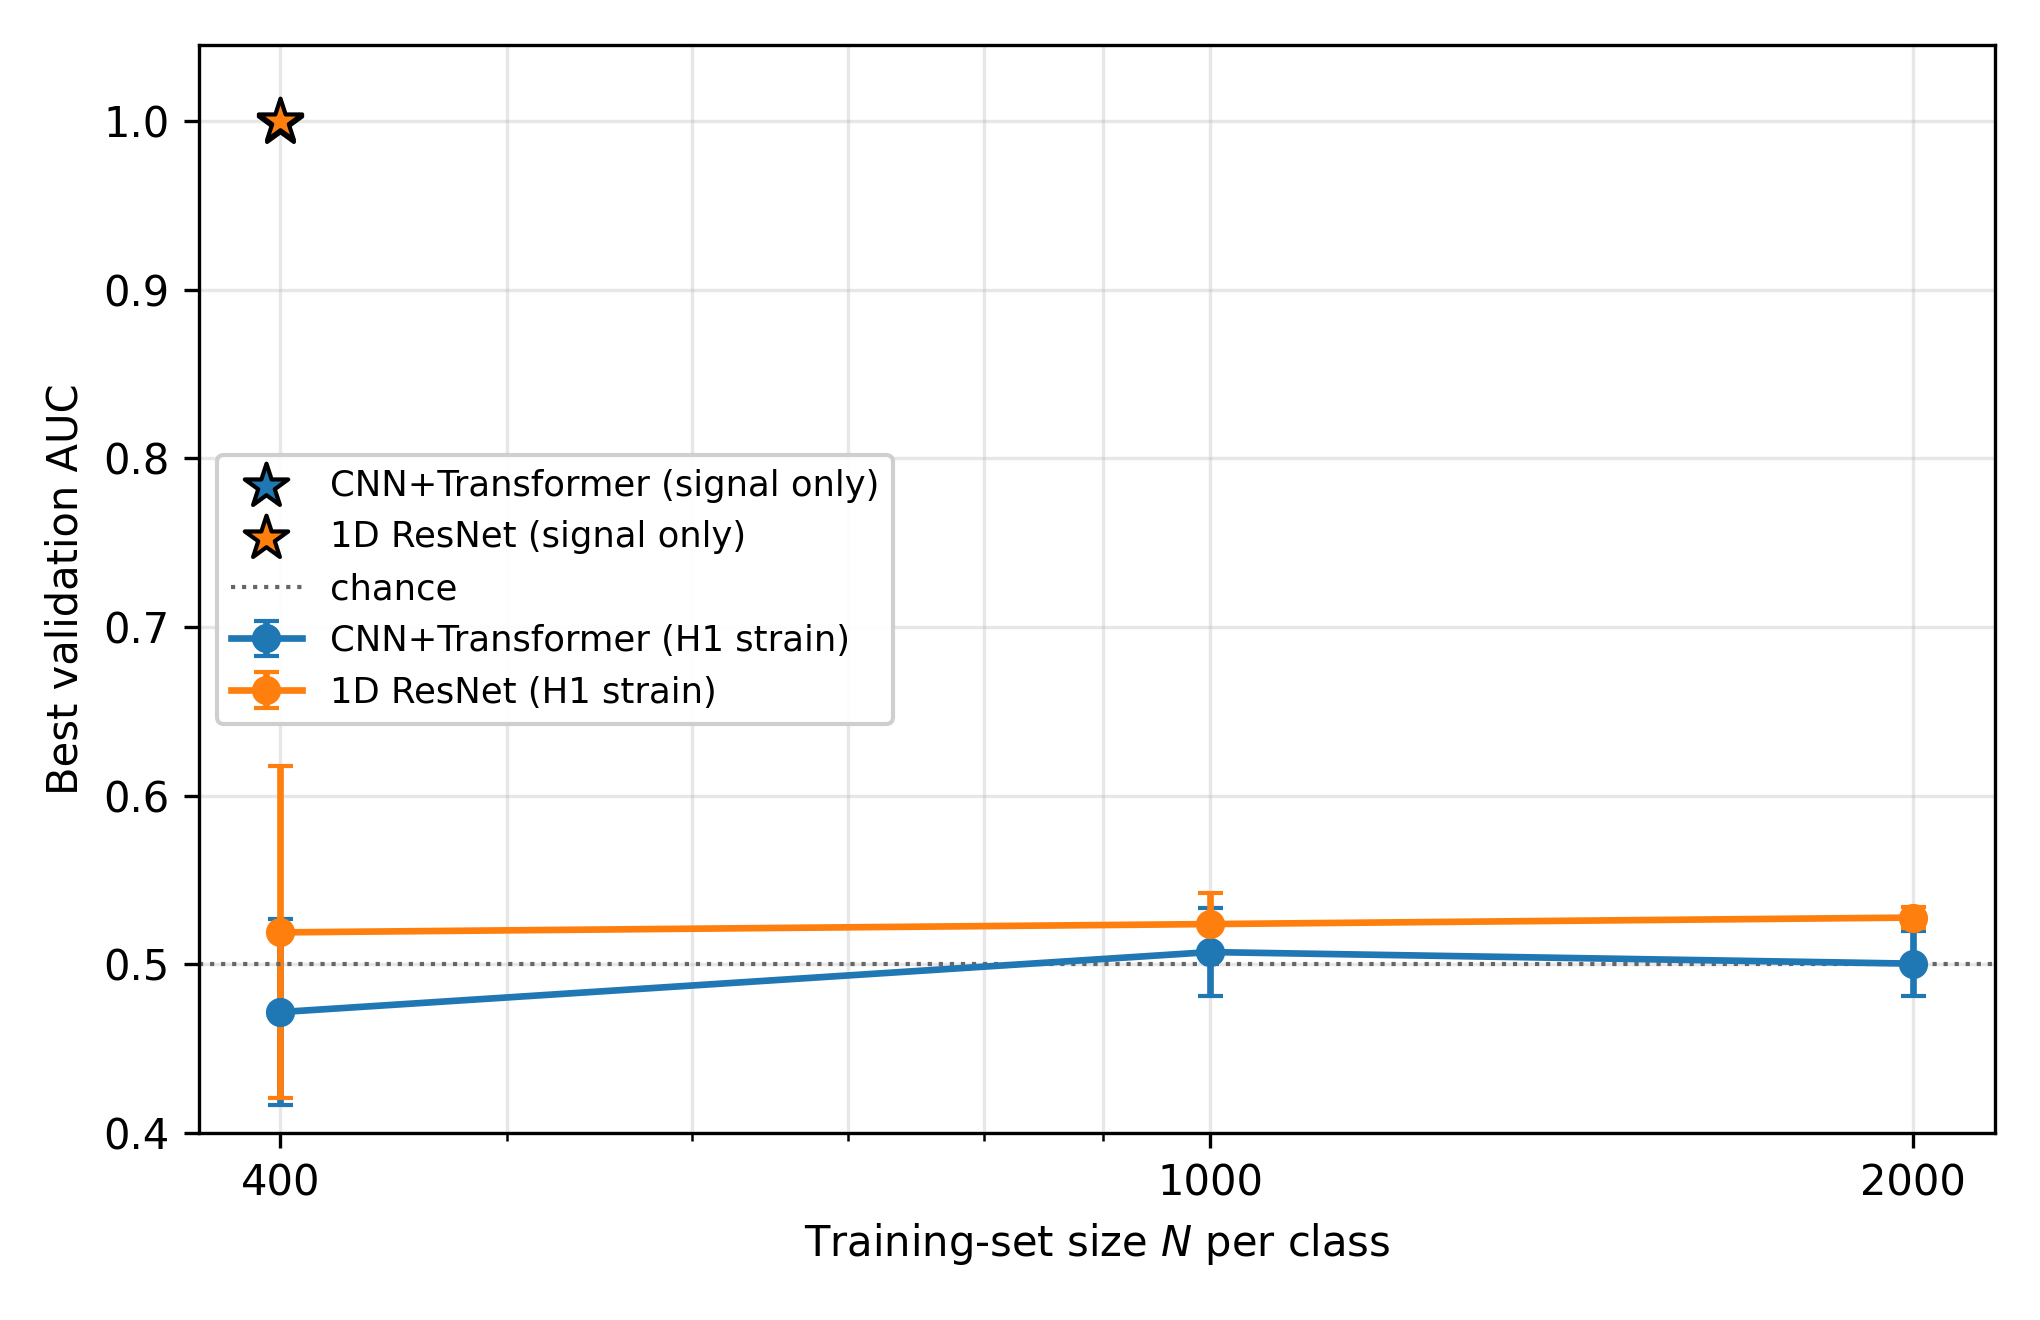
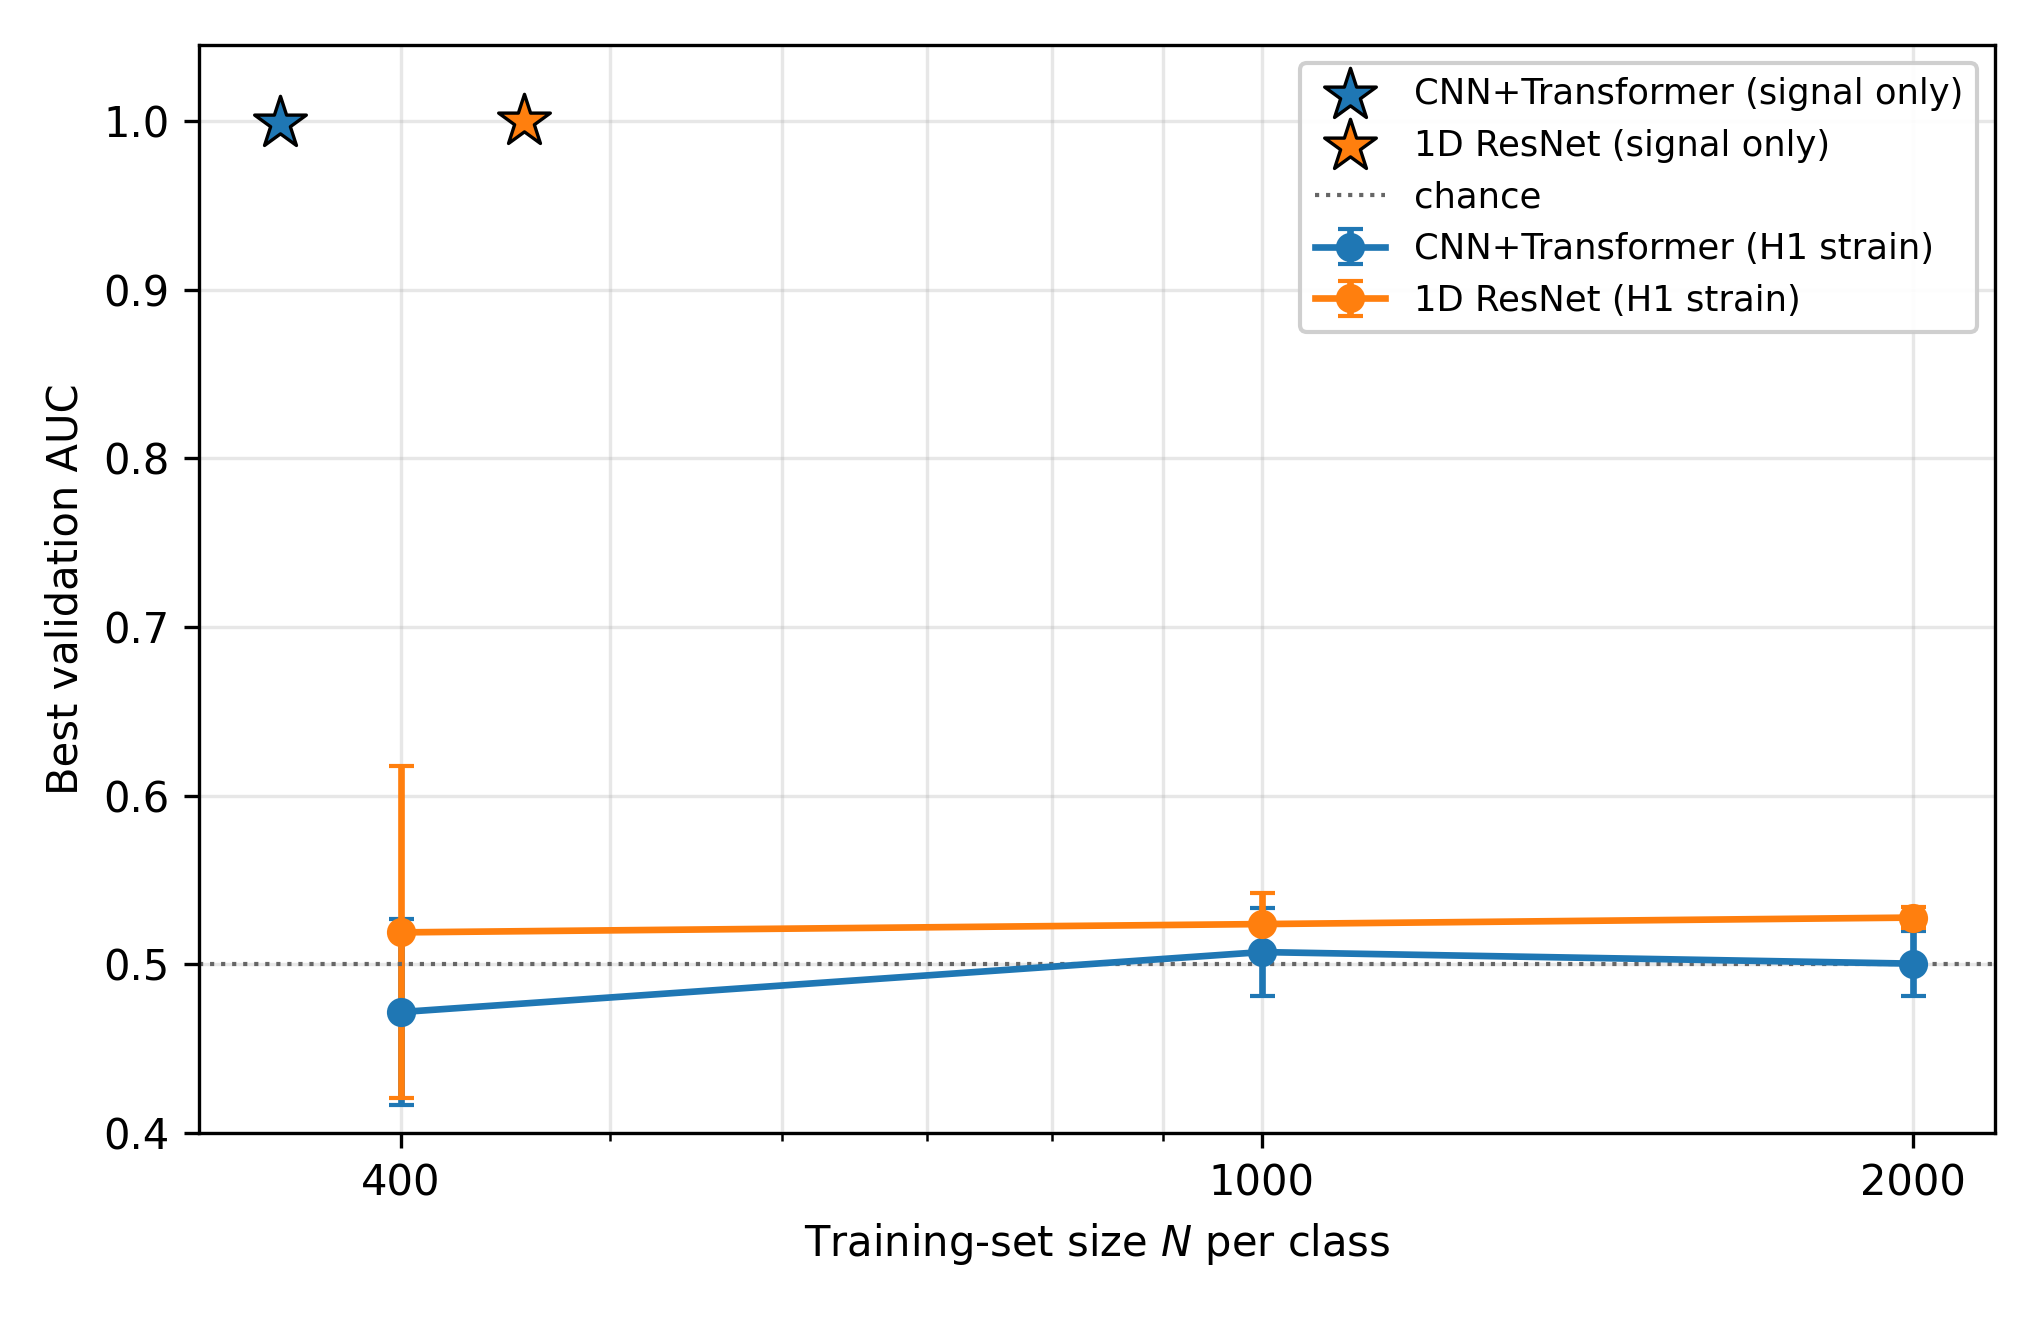
Fig. 5: legend top-right, both signal-only stars visible

diff --git a/scripts/run_ml_ablation.py b/scripts/run_ml_ablation.py
@@ -82,8 +82,11 @@ def make_ablation_figure(rows: list[dict], out_dir: Path) -> None:
                         capsize=3, lw=1.6, ms=6, label=f"{names.get(arch, arch)} (H1 strain)")
         so = [r for r in rows if r["arch"] == arch and r["condition"] == "signal_only"]
         if so:
-            ax.scatter([so[0]["n_per_class"]], [so[0]["auc_mean"]], marker="*",
-                       s=120, color=colors.get(arch, "C2"), edgecolor="k", zorder=5,
+            # small horizontal dodge so the two signal-only stars do not overlap
+            star_dodge = {"cnn_transformer": 0.88, "resnet": 1.14}.get(arch, 1.0)
+            ax.scatter([so[0]["n_per_class"] * star_dodge], [so[0]["auc_mean"]],
+                       marker="*", s=170, color=colors.get(arch, "C2"),
+                       edgecolor="k", linewidth=0.8, zorder=6,
                        label=f"{names.get(arch, arch)} (signal only)")
     ax.axhline(0.5, ls=":", color="0.4", lw=1.0, label="chance")
     ax.set_xscale("log")
@@ -96,7 +99,7 @@ def make_ablation_figure(rows: list[dict], out_dir: Path) -> None:
     ax.set_ylabel("Best validation AUC")
     ax.set_ylim(0.4, 1.045)
     ax.grid(alpha=0.3, which="both")
-    ax.legend(loc="center left", fontsize=8.5, framealpha=0.93)
+    ax.legend(loc="upper right", fontsize=8.5, framealpha=0.93)
     fig.tight_layout()
     out_dir.mkdir(exist_ok=True)
     fig.savefig(out_dir / "fig_ml_ablation.pdf", dpi=300)
